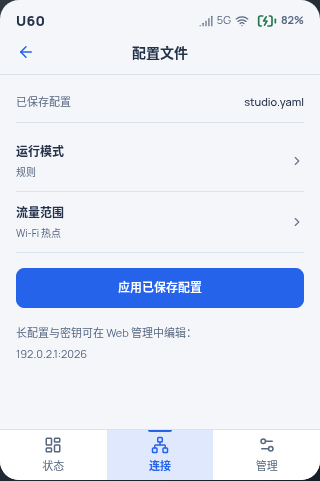
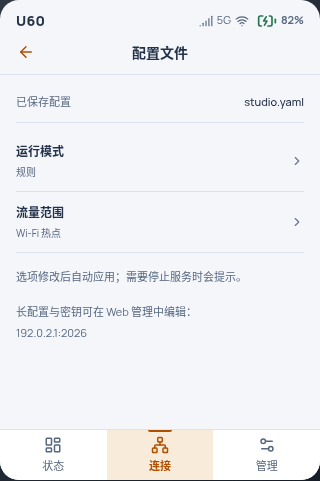
docs(design): record automatic application and native surface requirements

Changed region(s): [[0.0312, 0.5301, 0.9688, 0.7484], [0.3125, 0.8732, 0.6875, 0.9979], [0.0625, 0.0936, 0.0938, 0.1247]]

diff --git a/design/product-ui/README.md b/design/product-ui/README.md
@@ -25,8 +25,8 @@ bash design/product-ui/preview.sh
 ## 本轮可评审的内容
 
 - Web：概览、Wi-Fi、连接设备、移动网络、短信、组网与服务、局域网、系统设置。每个服务独立管理自己的配置、状态与维护。
-- 表单：编辑、撤销、应用、影响连接时确认；Wi-Fi 名称修改会同步到分享卡片。不同频段名称提供独立二维码。
-- 服务：独立启停、路由与实际可达性分开、日志筛选、安装更新入口、配置保存与 reload 的状态区别。
+- 表单：开关与选项即时应用，文字输入在回车或结束输入时应用；只对中断连接的修改提示确认，取消保留原值。Wi-Fi 名称修改会同步到分享卡片。不同频段名称提供独立二维码。
+- 服务：独立启停、路由与实际可达性分开、日志筛选、安装更新入口、长配置完成编辑后自动校验、保存与 reload 的流程。
 - 屏幕：状态／连接／管理三个主入口，服务详情、供电方式、连接码、长短信与进程表；长按 1 秒解锁和可选 PIN 流程。
 - 功能地图：查询已有功能迁往哪个 Web 页面和哪个屏幕分类。
 
@@ -38,7 +38,7 @@ bash design/product-ui/preview.sh
 
 「首页布局」可配置是否显示信号详情、Wi-Fi 连接卡片和组网服务摘要，也可单独隐藏某项服务。三个快捷指标支持在线设备、已用／剩余流量、CPU、内存、温度、电量、运行时间或不显示；选择已有指标会交换位置。设置在预览中即时生效并保留到下次打开；隐藏摘要只影响首页展示，不停止服务。
 
-屏幕服务配置页的运行模式与流量范围可直接点击修改，显示应用影响后确认。此处仍为示例交互，真实设备的保存、重载、重启与回读验证在后续接口接入时完成。
+屏幕服务配置页的运行模式选完即生效；流量范围仅在服务运行且需要停止后重启时提示确认，停止状态下直接保存。两端使用相同规则，不再要求额外点击“应用已保存配置”。此处仍为示例交互，真实设备的保存、重载、重启与回读验证在后续接口接入时完成。
 
 公开截图使用中性示例名称的发布预览，例如 `http://127.0.0.1:5176/?view=screen&presentation=public`；切换页面与初版风格会保留该模式。
 
@@ -76,7 +76,7 @@ npm run build
 已通过 TypeScript 与 Vite 构建、Chromium 交互检查：
 
 - 38 个页面／子页在 1440 和 390 像素宽度下无整页横向溢出；长表格在自身区域内横向滚动。
-- 独立服务开关、Wi-Fi 编辑与确认、双频分享切换、配置保存与重载状态可操作。
+- 独立服务开关、普通选项即时应用、文字完成输入、无效输入保留、断连确认与取消、双频分享、长配置完成后自动保存与重载可操作。
 - 屏幕保持 320 × 480，首页内容完整放在导航上方；两个二维码均为 106 × 106，长名称不会压缩二维码。
 - 长短信可以滚动至末尾；短按不解锁，长按 1 秒可解锁，可选 PIN 流程可用。
 - 所有页面请求均留在本机，没有浏览器运行错误。
